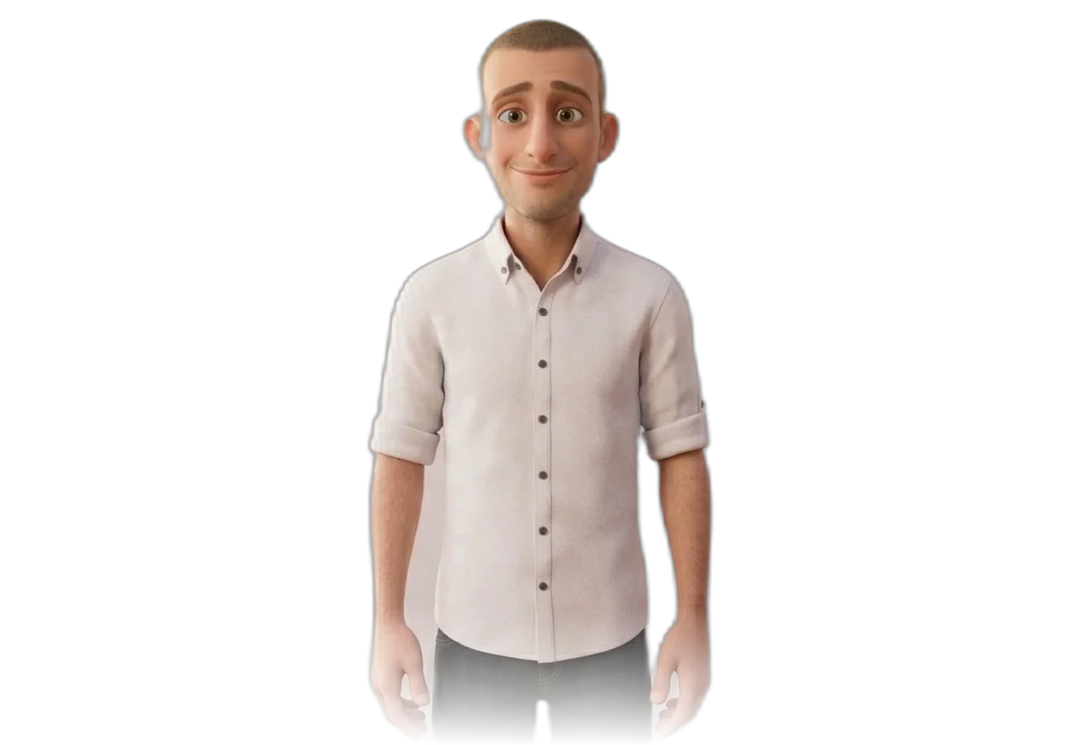
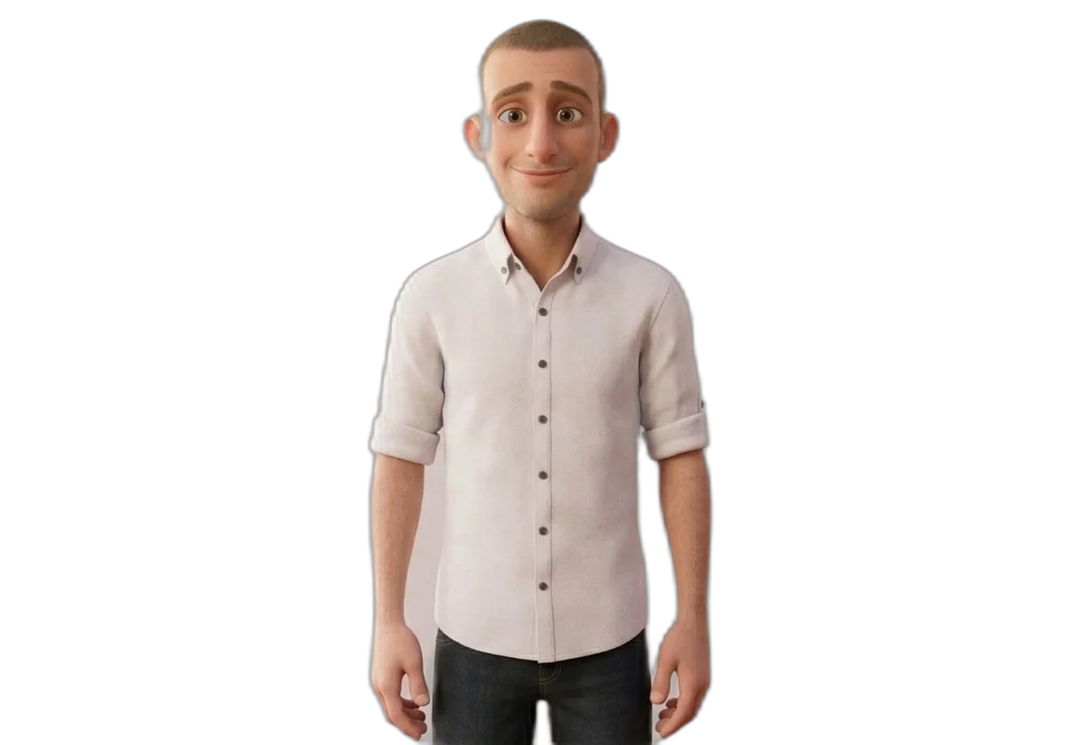
Youssef mascot: solid unfaded cutout, Moamen-style shadow and bubble, tap-only reactions (no hover)

Changed region(s): [[0.3361, 0.8336, 0.6722, 1.0]]

diff --git a/youssef/track.html b/youssef/track.html
@@ -1,4 +1,4 @@
-<!doctype html><html dir="rtl" lang="ar"><head><meta charset="utf-8"><meta name="viewport" content="width=device-width,initial-scale=1"><meta name=color-scheme content='only light'><meta name=supported-color-schemes content='light'><meta name=darkreader-lock><link href="https://fonts.googleapis.com/css2?family=Amiri:wght@400;700&family=Cairo:wght@400;600;700;800;900&display=swap" rel="stylesheet"><link rel="stylesheet" href="style.css?v=20261126l"><title>أولى ابتدائي | منصة مستر يوسف</title><link rel="stylesheet" href="acct.css?v=20261126k"><script src="acct.js?v=20261126k"></script><link rel="stylesheet" href="fx.css?v=20261126k"><script src="fx.js?v=20261126k" defer></script><script>window.MM_INTER={prefix:'my',selectors:{mascot:'img[src*="mr-youssef"]',node:'.circle[data-node]',tile:'.strip .wrap>div'}};window.MM_HEADS=[];</script><script src="intro.js?v=20261126k" defer></script><script src="heads.js?v=20261126k" defer></script><script src="inter.js?v=2" defer></script><script src="bubbles.js?v=20261126k"></script></head><body><nav><div class="wrap"><a class="brand" href="index.html"><span class="dm"><b>ي</b></span>منصة مستر يوسف</a><ul><li><a href="index.html">الرئيسية</a></li><li><a href="index.html#grades">الصفوف</a></li><li><a href="track.html?t=g1" aria-current="page">الدروس</a></li><li><a href="index.html#about">عن مستر يوسف</a></li></ul><a class="btn" href="track.html?t=g1">ابدأ المذاكرة</a></div></nav>
+<!doctype html><html dir="rtl" lang="ar"><head><meta charset="utf-8"><meta name="viewport" content="width=device-width,initial-scale=1"><meta name=color-scheme content='only light'><meta name=supported-color-schemes content='light'><meta name=darkreader-lock><link href="https://fonts.googleapis.com/css2?family=Amiri:wght@400;700&family=Cairo:wght@400;600;700;800;900&display=swap" rel="stylesheet"><link rel="stylesheet" href="style.css?v=20261126m"><title>أولى ابتدائي | منصة مستر يوسف</title><link rel="stylesheet" href="acct.css?v=20261126k"><script src="acct.js?v=20261126k"></script><link rel="stylesheet" href="fx.css?v=20261126k"><script src="fx.js?v=20261126m" defer></script><script>window.MM_INTER={prefix:'my',selectors:{mascot:'img[src*="mr-youssef"]',node:'.circle[data-node]',tile:'.strip .wrap>div'}};window.MM_HEADS=[];</script><script src="intro.js?v=20261126k" defer></script><script src="heads.js?v=20261126k" defer></script><script src="inter.js?v=2" defer></script><script src="bubbles.js?v=20261126k"></script></head><body><nav><div class="wrap"><a class="brand" href="index.html"><span class="dm"><b>ي</b></span>منصة مستر يوسف</a><ul><li><a href="index.html">الرئيسية</a></li><li><a href="index.html#grades">الصفوف</a></li><li><a href="track.html?t=g1" aria-current="page">الدروس</a></li><li><a href="index.html#about">عن مستر يوسف</a></li></ul><a class="btn" href="track.html?t=g1">ابدأ المذاكرة</a></div></nav>
 <div class="hero th"><div class="wrap"><div><div class="crumbs">الرئيسية ‹ الصفوف ‹ أولى ابتدائي</div><h1 data-go="lesson.html?lesson=1" role="link" tabindex="0" title="ابدأ الدرس الأول">أولى ابتدائي<br><em>اللغة العربية · الترم الأول</em></h1><div class="subj sm">مادة اللغة العربية</div></div><div class="char"><div class="bubble" id="trackBubble">يلا نفتح الدرس ونبدأ</div><img id="trackPose" src="assets/img/mr-youssef.png" alt="مستر يوسف" style="height:210px"></div></div></div>
 <script>(function(){var b=document.getElementById('trackBubble');if(b)b.textContent=mmBubble('book','start','track');})();</script>
 <section style="padding-top:34px"><div class="wrap"><div class="tabs"><span class="on">الترم الأول</span><span>الترم الثاني (قريبًا)</span></div><div id="units"><p class="load" role="status">جاري تحميل الدروس...</p></div>

diff --git a/youssef/login.html b/youssef/login.html
@@ -1,4 +1,4 @@
-<!doctype html><html dir="rtl" lang="ar"><head><meta charset="utf-8"><meta name="viewport" content="width=device-width,initial-scale=1"><meta name=color-scheme content='only light'><meta name=supported-color-schemes content='light'><meta name=darkreader-lock><link href="https://fonts.googleapis.com/css2?family=Amiri:wght@400;700&family=Cairo:wght@400;600;700;800;900&family=Lalezar&display=swap" rel="stylesheet"><link rel="stylesheet" href="style.css?v=20261126l"><link rel="stylesheet" href="acct.css?v=20261126k"><link rel="stylesheet" href="fx.css?v=20261126k"><script src="acct.js?v=20261126k"></script><script src="fx.js?v=20261126k" defer></script><script>window.MM_INTER={prefix:'my',selectors:{mascot:'img[src*="mr-youssef"]',node:'.circle[data-node]',tile:'.strip .wrap>div'}};window.MM_HEADS=[];</script><script src="intro.js?v=20261126k" defer></script><script src="heads.js?v=20261126k" defer></script><script src="inter.js?v=2" defer></script><title>دخول | منصة مستر يوسف</title></head><body><nav><div class="wrap"><a class="brand" href="index.html"><span class="dm"><b>ي</b></span>منصة مستر يوسف</a><ul><li><a href="index.html">الرئيسية</a></li><li><a href="index.html#grades">الصفوف</a></li><li><a href="track.html?t=g1">الدروس</a></li><li><a href="index.html#about">عن مستر يوسف</a></li></ul><a class="btn" href="track.html?t=g1">ابدأ المذاكرة</a></div></nav>
+<!doctype html><html dir="rtl" lang="ar"><head><meta charset="utf-8"><meta name="viewport" content="width=device-width,initial-scale=1"><meta name=color-scheme content='only light'><meta name=supported-color-schemes content='light'><meta name=darkreader-lock><link href="https://fonts.googleapis.com/css2?family=Amiri:wght@400;700&family=Cairo:wght@400;600;700;800;900&family=Lalezar&display=swap" rel="stylesheet"><link rel="stylesheet" href="style.css?v=20261126m"><link rel="stylesheet" href="acct.css?v=20261126k"><link rel="stylesheet" href="fx.css?v=20261126k"><script src="acct.js?v=20261126k"></script><script src="fx.js?v=20261126m" defer></script><script>window.MM_INTER={prefix:'my',selectors:{mascot:'img[src*="mr-youssef"]',node:'.circle[data-node]',tile:'.strip .wrap>div'}};window.MM_HEADS=[];</script><script src="intro.js?v=20261126k" defer></script><script src="heads.js?v=20261126k" defer></script><script src="inter.js?v=2" defer></script><title>دخول | منصة مستر يوسف</title></head><body><nav><div class="wrap"><a class="brand" href="index.html"><span class="dm"><b>ي</b></span>منصة مستر يوسف</a><ul><li><a href="index.html">الرئيسية</a></li><li><a href="index.html#grades">الصفوف</a></li><li><a href="track.html?t=g1">الدروس</a></li><li><a href="index.html#about">عن مستر يوسف</a></li></ul><a class="btn" href="track.html?t=g1">ابدأ المذاكرة</a></div></nav>
 <div class="acc"><div class="auth-grid"><div class="panel"><h1 id="ttl" data-go="index.html" role="link" tabindex="0" title="الصفحة الرئيسية">أهلًا بيك</h1><p class="sub">تقدمك بيتحفظ في حسابك بس، وتكمل من أي جهاز.</p>
 <div class="seg"><button type="button" id="tin" class="on">دخول</button><button type="button" id="tup">حساب جديد</button></div>
 <div class="hint" id="need" hidden>لازم تسجل دخولك الأول علشان نفتح الدرس ونحفظ تقدمك. التسجيل بياخد دقيقة.</div><form id="f" novalidate><div class="fld" id="nm" hidden><label for="n">اسمك</label><input id="n" autocomplete="name" maxlength="60" placeholder="مثال: أحمد محمد"></div>

diff --git a/youssef/profile.html b/youssef/profile.html
@@ -1,4 +1,4 @@
-<!doctype html><html dir="rtl" lang="ar"><head><meta charset="utf-8"><meta name="viewport" content="width=device-width,initial-scale=1"><meta name=color-scheme content='only light'><meta name=supported-color-schemes content='light'><meta name=darkreader-lock><link href="https://fonts.googleapis.com/css2?family=Amiri:wght@400;700&family=Cairo:wght@400;600;700;800;900&family=Cairo&display=swap" rel="stylesheet"><link rel="stylesheet" href="style.css?v=20261126l"><link rel="stylesheet" href="acct.css?v=20261126k"><link rel="stylesheet" href="fx.css?v=20261126k"><script src="acct.js?v=20261126k"></script><script src="fx.js?v=20261126k" defer></script><script>window.MM_INTER={prefix:'my',selectors:{mascot:'img[src*="mr-youssef"]',node:'.circle[data-node]',tile:'.strip .wrap>div'}};window.MM_HEADS=[];</script><script src="intro.js?v=20261126k" defer></script><script src="heads.js?v=20261126k" defer></script><script src="inter.js?v=2" defer></script><title>حسابي | منصة مستر يوسف</title></head><body><nav><div class="wrap"><a class="brand" href="index.html"><span class="dm"><b>ي</b></span>منصة مستر يوسف</a><ul><li><a href="index.html">الرئيسية</a></li><li><a href="index.html#grades">الصفوف</a></li><li><a href="track.html?t=g1">الدروس</a></li><li><a href="index.html#about">عن مستر يوسف</a></li></ul><a class="btn" href="track.html?t=g1">ابدأ المذاكرة</a></div></nav>
+<!doctype html><html dir="rtl" lang="ar"><head><meta charset="utf-8"><meta name="viewport" content="width=device-width,initial-scale=1"><meta name=color-scheme content='only light'><meta name=supported-color-schemes content='light'><meta name=darkreader-lock><link href="https://fonts.googleapis.com/css2?family=Amiri:wght@400;700&family=Cairo:wght@400;600;700;800;900&family=Cairo&display=swap" rel="stylesheet"><link rel="stylesheet" href="style.css?v=20261126m"><link rel="stylesheet" href="acct.css?v=20261126k"><link rel="stylesheet" href="fx.css?v=20261126k"><script src="acct.js?v=20261126k"></script><script src="fx.js?v=20261126m" defer></script><script>window.MM_INTER={prefix:'my',selectors:{mascot:'img[src*="mr-youssef"]',node:'.circle[data-node]',tile:'.strip .wrap>div'}};window.MM_HEADS=[];</script><script src="intro.js?v=20261126k" defer></script><script src="heads.js?v=20261126k" defer></script><script src="inter.js?v=2" defer></script><title>حسابي | منصة مستر يوسف</title></head><body><nav><div class="wrap"><a class="brand" href="index.html"><span class="dm"><b>ي</b></span>منصة مستر يوسف</a><ul><li><a href="index.html">الرئيسية</a></li><li><a href="index.html#grades">الصفوف</a></li><li><a href="track.html?t=g1">الدروس</a></li><li><a href="index.html#about">عن مستر يوسف</a></li></ul><a class="btn" href="track.html?t=g1">ابدأ المذاكرة</a></div></nav>
 <div class="acc"><div class="panel" id="box"><h1 data-go="track.html" role="link" tabindex="0" title="صفحتي ودروسي">حسابي</h1><p class="sub" id="who">ثواني...</p>
 <div id="guestbox" hidden><div class="hint">لازم تسجل دخولك علشان تشوف تقدمك. تقدمك بيتحفظ في حسابك بس.</div><a class="pbtn" href="login.html?mode=up&next=profile.html" style="text-align:center;text-decoration:none">اعمل حساب أو سجّل دخول</a></div>
 <div class="sts"><div><b id="s1">٠</b><span>نقاطي</span></div><div><b id="s2">٠</b><span>أيام متتالية</span></div><div><b id="s3">٠</b><span>أسئلة خلّصتها</span></div></div>

diff --git a/youssef/index.html b/youssef/index.html
@@ -1,4 +1,4 @@
-<!doctype html><html dir="rtl" lang="ar"><head><meta charset="utf-8"><meta name="viewport" content="width=device-width,initial-scale=1"><meta name=color-scheme content='only light'><meta name=supported-color-schemes content='light'><meta name=darkreader-lock><link href="https://fonts.googleapis.com/css2?family=Amiri:wght@400;700&family=Cairo:wght@400;600;700;800;900&display=swap" rel="stylesheet"><link rel="stylesheet" href="style.css?v=20261126l"><title>منصة مستر يوسف | اللغة العربية من أولى ابتدائي لتالتة إعدادي</title><link rel="stylesheet" href="acct.css?v=20261126k"><script src="acct.js?v=20261126k"></script><link rel="stylesheet" href="fx.css?v=20261126k"><script src="fx.js?v=20261126k" defer></script><script>window.MM_INTER={prefix:'my',selectors:{mascot:'img[src*="mr-youssef"]',node:'.circle[data-node]',tile:'.strip .wrap>div'}};window.MM_HEADS=[];</script><script src="intro.js?v=20261126k" defer></script><script src="heads.js?v=20261126k" defer></script><script src="inter.js?v=2" defer></script><script src="bubbles.js?v=20261126k"></script></head><body>
+<!doctype html><html dir="rtl" lang="ar"><head><meta charset="utf-8"><meta name="viewport" content="width=device-width,initial-scale=1"><meta name=color-scheme content='only light'><meta name=supported-color-schemes content='light'><meta name=darkreader-lock><link href="https://fonts.googleapis.com/css2?family=Amiri:wght@400;700&family=Cairo:wght@400;600;700;800;900&display=swap" rel="stylesheet"><link rel="stylesheet" href="style.css?v=20261126m"><title>منصة مستر يوسف | اللغة العربية من أولى ابتدائي لتالتة إعدادي</title><link rel="stylesheet" href="acct.css?v=20261126k"><script src="acct.js?v=20261126k"></script><link rel="stylesheet" href="fx.css?v=20261126k"><script src="fx.js?v=20261126m" defer></script><script>window.MM_INTER={prefix:'my',selectors:{mascot:'img[src*="mr-youssef"]',node:'.circle[data-node]',tile:'.strip .wrap>div'}};window.MM_HEADS=[];</script><script src="intro.js?v=20261126k" defer></script><script src="heads.js?v=20261126k" defer></script><script src="inter.js?v=2" defer></script><script src="bubbles.js?v=20261126k"></script></head><body>
 <nav><div class="wrap"><a class="brand" href="index.html"><span class="dm"><b>ي</b></span>منصة مستر يوسف</a><ul><li><a href="index.html" aria-current="page">الرئيسية</a></li><li><a href="index.html#grades">الصفوف</a></li><li><a href="index.html#how">إزاي بنشرح</a></li><li><a href="index.html#parents">لولي الأمر</a></li></ul><a class="btn" href="track.html?t=g1">ابدأ المذاكرة</a></div></nav>
 
 <div class="hero"><div class="wrap"><div><div class="subj">عربي · من أولى ابتدائي لتالتة إعدادي</div><h1 data-go="track.html?t=g1" role="link" tabindex="0" title="ابدأ المذاكرة">العربي ببساطة،<br><em>من غير وجع دماغ</em></h1><p>منصة مستر يوسف بتشرح اللغة العربية بأسلوب نظيف وواضح: درس قصير، مثال من الحياة، وتمرين على طول. لكل صف من أولى ابتدائي لتالتة إعدادي، وبمتابعة كاملة لولي الأمر.</p><div class="cta"><a class="btn" href="track.html?t=g1">ابدأ من أولى ابتدائي</a><a class="btn alt" href="#how">إزاي بنشرح</a></div></div>

diff --git a/youssef/fx.js b/youssef/fx.js
@@ -89,18 +89,11 @@ function init(){
 if(document.readyState==='loading')document.addEventListener('DOMContentLoaded',init);else init();
 })();
 
-/* Mr. Youssef reacts to the pointer: gentle lean toward the cursor, happy bounce on hover, click/tap bounce + a fresh bubble line */
+/* Mr. Youssef mascot: tap gives a happy bounce + a fresh bubble line (no hover effects) */
 (function(){
 var SEL='#heroPose,#trackPose,.auth-char img,.pop-ch',
- rm=window.matchMedia&&matchMedia('(prefers-reduced-motion: reduce)').matches,raf=0,mx=0,my=0;
-function imgs(){return document.querySelectorAll(SEL);}
-function lean(){raf=0;imgs().forEach(function(im){var r=im.getBoundingClientRect();if(r.width<10||r.bottom<0||r.top>innerHeight)return;
- var dx=(mx-(r.left+r.width/2))/innerWidth,dy=(my-(r.top+r.height/3))/innerHeight;dx=Math.max(-1,Math.min(1,dx*2));dy=Math.max(-1,Math.min(1,dy*2));
- im.style.transition='translate .25s ease-out,rotate .25s ease-out';im.style.translate=(dx*8).toFixed(1)+'px '+(dy*4).toFixed(1)+'px';im.style.rotate=(dx*3).toFixed(1)+'deg';});}
-if(!rm){document.addEventListener('pointermove',function(e){if(e.pointerType!=='mouse')return;mx=e.clientX;my=e.clientY;if(!raf)raf=requestAnimationFrame(lean);},{passive:true});
- document.addEventListener('mouseleave',function(){imgs().forEach(function(im){im.style.translate='';im.style.rotate='';});});}
+ rm=window.matchMedia&&matchMedia('(prefers-reduced-motion: reduce)').matches;
 function hop(im){if(rm||!im.animate)return;im.animate([{scale:'1'},{scale:'1.05'},{scale:'.99'},{scale:'1'}],{duration:420,easing:'ease-out'});}
-document.addEventListener('mouseover',function(e){var im=e.target.closest&&e.target.closest('#heroPose,#trackPose,.auth-char img');if(im&&!im._h){im._h=1;hop(im);setTimeout(function(){im._h=0;},900);}});
 var cats=['greet','start','back'],ci=0;
 document.addEventListener('click',function(e){var im=e.target.closest&&e.target.closest('#heroPose,#trackPose,.auth-char img');if(!im)return;hop(im);
  var b=im.parentNode&&im.parentNode.querySelector('.bubble');

diff --git a/youssef/style.css b/youssef/style.css
@@ -21,10 +21,10 @@ nav ul{display:flex;gap:26px;list-style:none;font-weight:700;font-size:15px}
 .hero .cta{display:flex;gap:12px;flex-wrap:wrap}
 .subj{display:inline-block;background:var(--sky);color:var(--primary);border:3px solid var(--primary);border-radius:14px;padding:8px 22px;font-weight:900;font-size:20px;margin:16px 0 4px}
 .hero .char{position:relative;text-align:center}
-.hero .char svg,.hero .char img{height:330px;display:block;margin:auto;position:relative;z-index:1}
+.hero .char svg,.hero .char img{height:330px;display:block;margin:auto;position:relative;z-index:1;filter:drop-shadow(0 8px 0 rgba(0,0,0,.2))}
 .ph-note{position:relative;z-index:2;background:var(--ink);color:var(--accent);font-size:12px;font-weight:800;border-radius:99px;padding:4px 14px;display:inline-block;margin-top:-8px}
-.bubble{position:absolute;top:0;right:-6px;z-index:3;background:#fff;color:var(--ink);border:3px solid var(--ink);border-radius:16px;padding:10px 16px;font-weight:800;font-size:15px;box-shadow:4px 4px 0 var(--ink);max-width:205px;line-height:1.6}
-.bubble::after{content:"";position:absolute;bottom:-14px;left:40px;width:20px;height:20px;background:#fff;border-right:3px solid var(--ink);border-bottom:3px solid var(--ink);transform:rotate(45deg)}
+.bubble{position:absolute;top:0;right:-6px;z-index:3;background:#fffdf6;color:var(--ink);border:3px solid var(--ink);border-radius:20px;padding:10px 16px;font-weight:800;font-size:15px;box-shadow:4px 4px 0 var(--ink);max-width:205px;line-height:1.6}
+.bubble::after{content:"";position:absolute;bottom:-14px;left:40px;width:20px;height:20px;background:#fffdf6;border-right:3px solid var(--ink);border-bottom:3px solid var(--ink);transform:rotate(45deg)}
 .strip{border-top:3px solid var(--ink);border-bottom:3px solid var(--ink);background:var(--paper)}
 .strip .wrap{display:grid;grid-template-columns:repeat(4,1fr);text-align:center;padding:20px;gap:8px}
 .strip b{font-size:28px;color:var(--primary);font-weight:900;display:block}

diff --git a/youssef/lesson.html b/youssef/lesson.html
@@ -185,7 +185,7 @@ main{max-width:720px;margin:0 auto}
 .mbar{right:max(0px, calc(50% - 360px));left:max(0px, calc(50% - 360px));border-right:2.5px solid var(--ink);border-left:2.5px solid var(--ink)}
 }
 .nt{cursor:pointer;text-decoration:underline dotted var(--yellow);text-underline-offset:6px}
-</style><link rel="stylesheet" href="acct.css?v=20261126k"><script src="acct.js?v=20261126k"></script><script src="bubbles.js?v=20261126k"></script><link rel="stylesheet" href="fx.css?v=20261126k"><script src="fx.js?v=20261126k" defer></script><script>window.MM_INTER={prefix:'my',selectors:{mascot:'img[src*="mr-youssef"]',node:'.circle[data-node]',tile:'.strip .wrap>div'}};window.MM_HEADS=[];</script><script src="intro.js?v=20261126k" defer></script><script src="heads.js?v=20261126k" defer></script><script src="inter.js?v=2" defer></script></head><body>
+</style><link rel="stylesheet" href="acct.css?v=20261126k"><script src="acct.js?v=20261126k"></script><script src="bubbles.js?v=20261126k"></script><link rel="stylesheet" href="fx.css?v=20261126k"><script src="fx.js?v=20261126m" defer></script><script>window.MM_INTER={prefix:'my',selectors:{mascot:'img[src*="mr-youssef"]',node:'.circle[data-node]',tile:'.strip .wrap>div'}};window.MM_HEADS=[];</script><script src="intro.js?v=20261126k" defer></script><script src="heads.js?v=20261126k" defer></script><script src="inter.js?v=2" defer></script></head><body>
 <div class="halftone"></div>
 <script>if("scrollRestoration" in history){history.scrollRestoration="manual"}window.scrollTo(0,0);addEventListener("load",function(){window.scrollTo(0,0)});</script>
 <header class="nhd">
